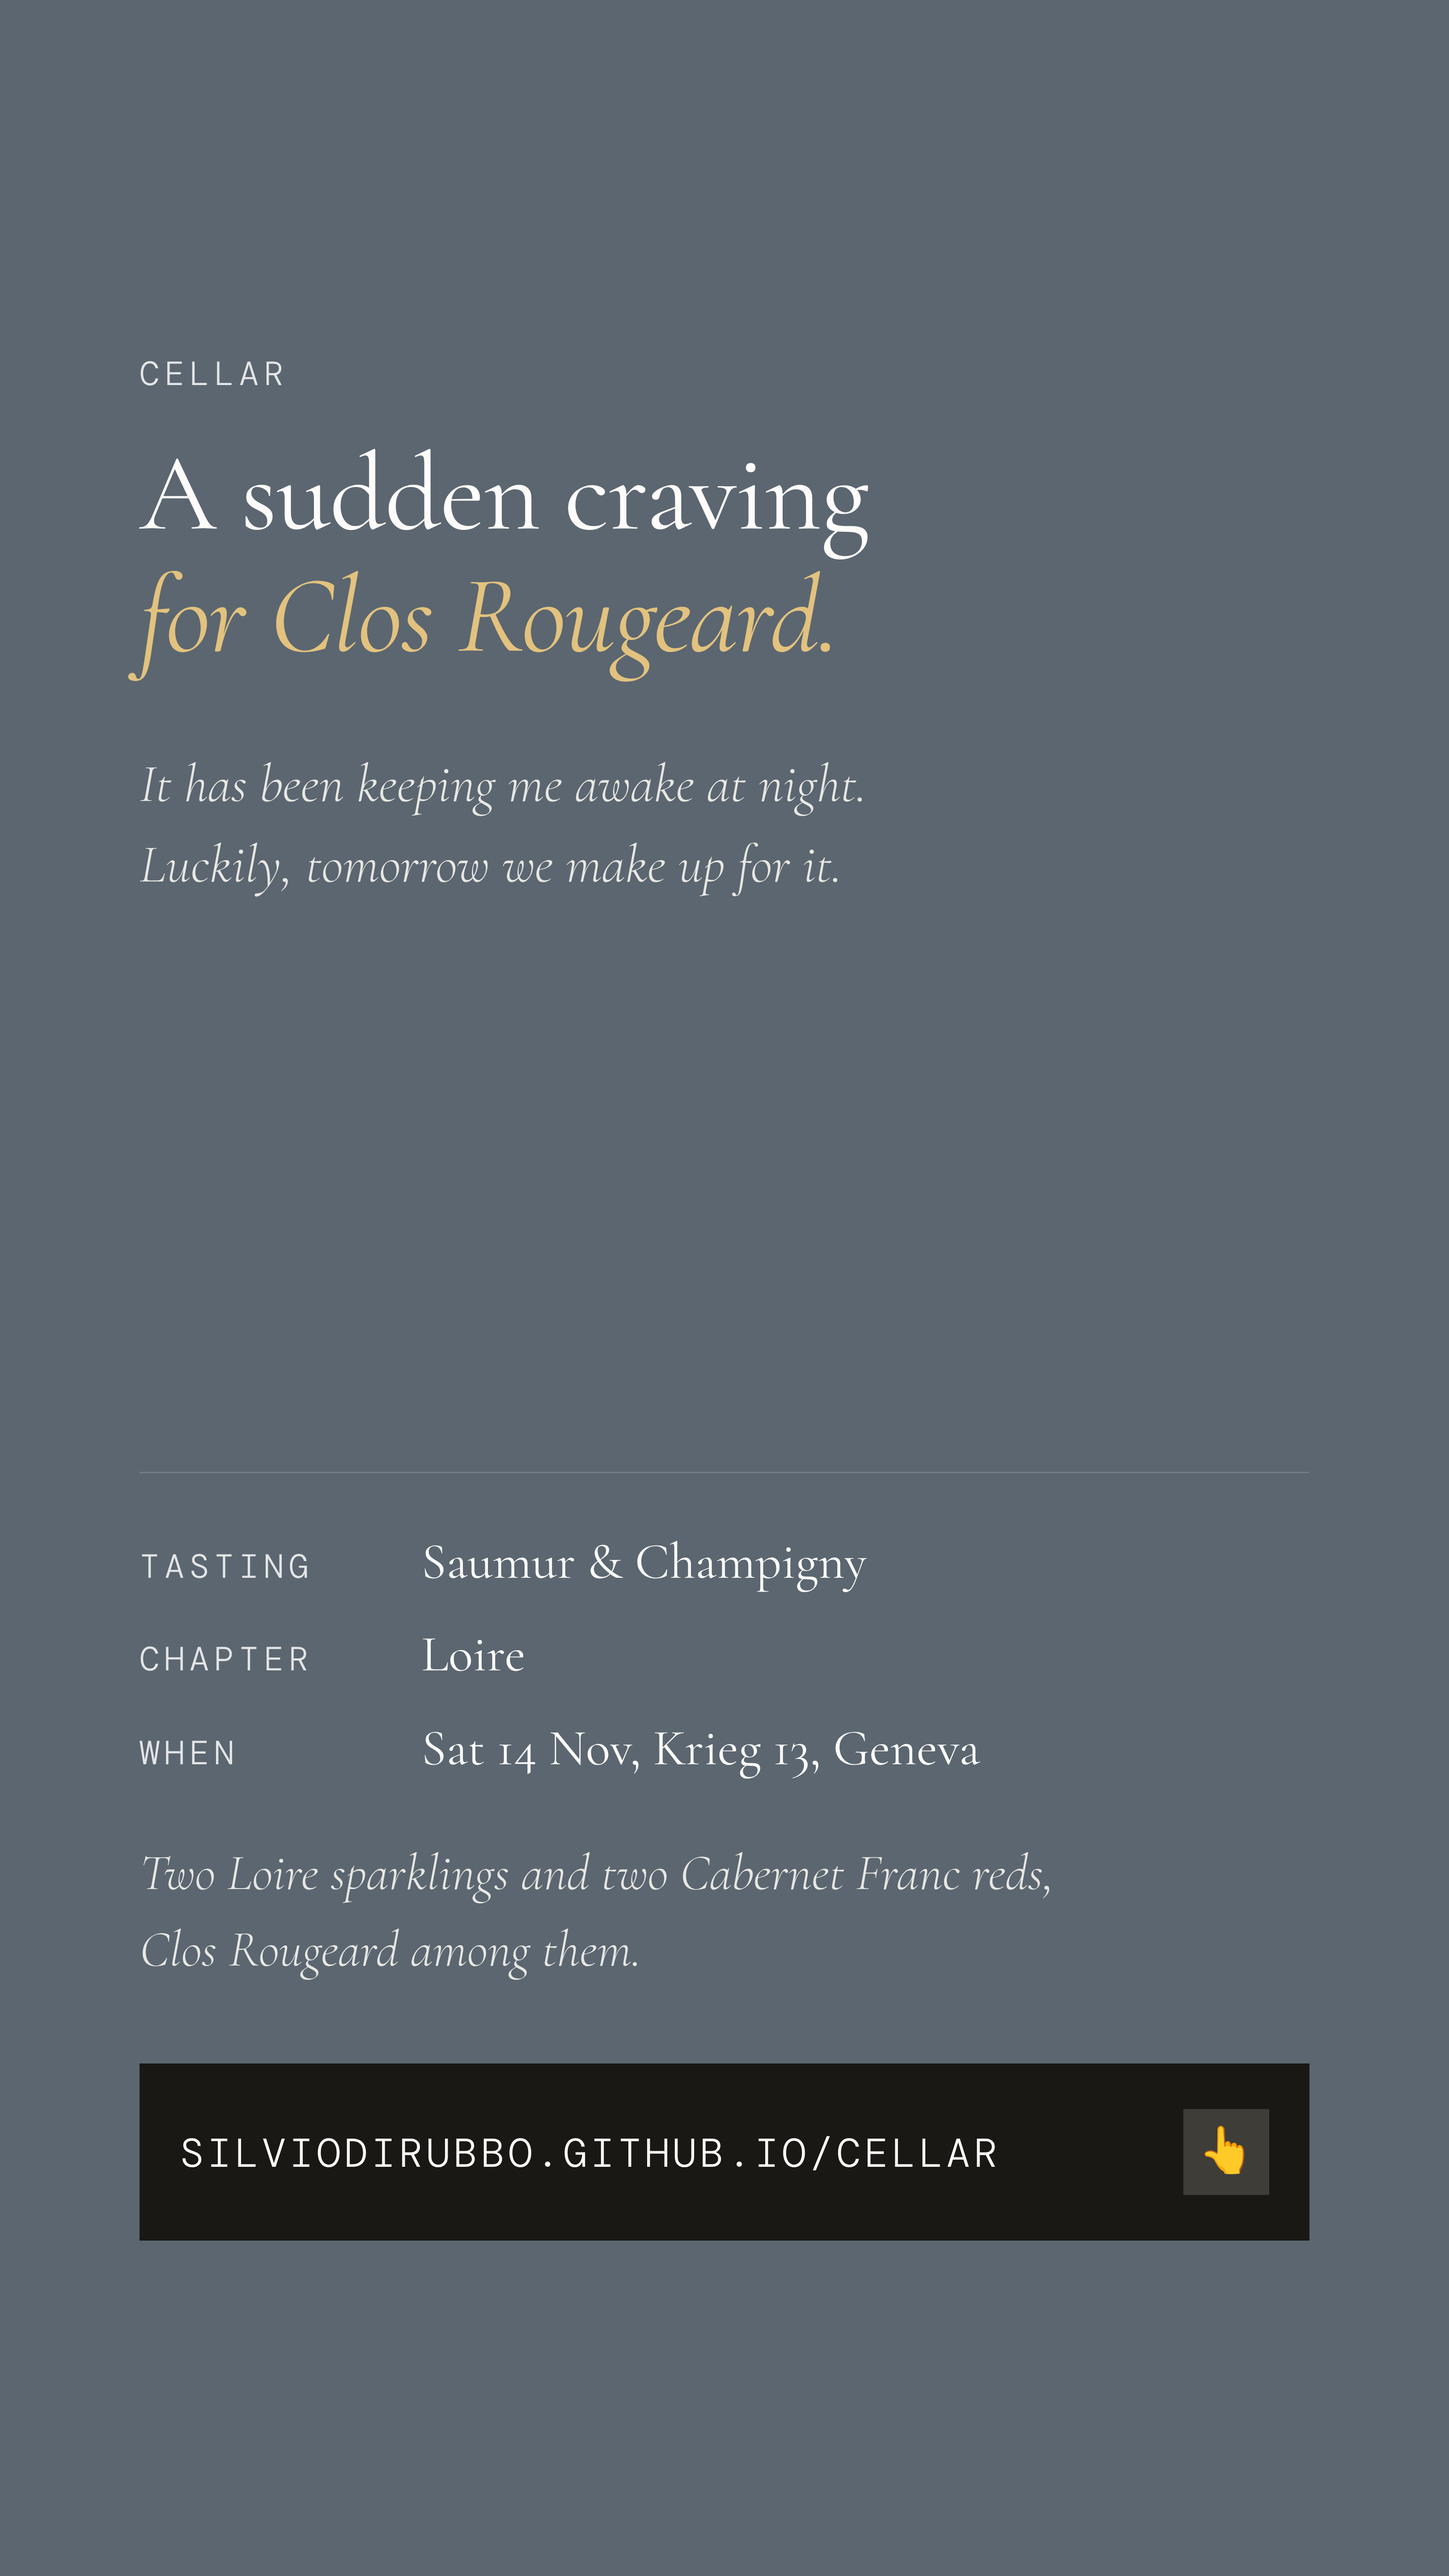
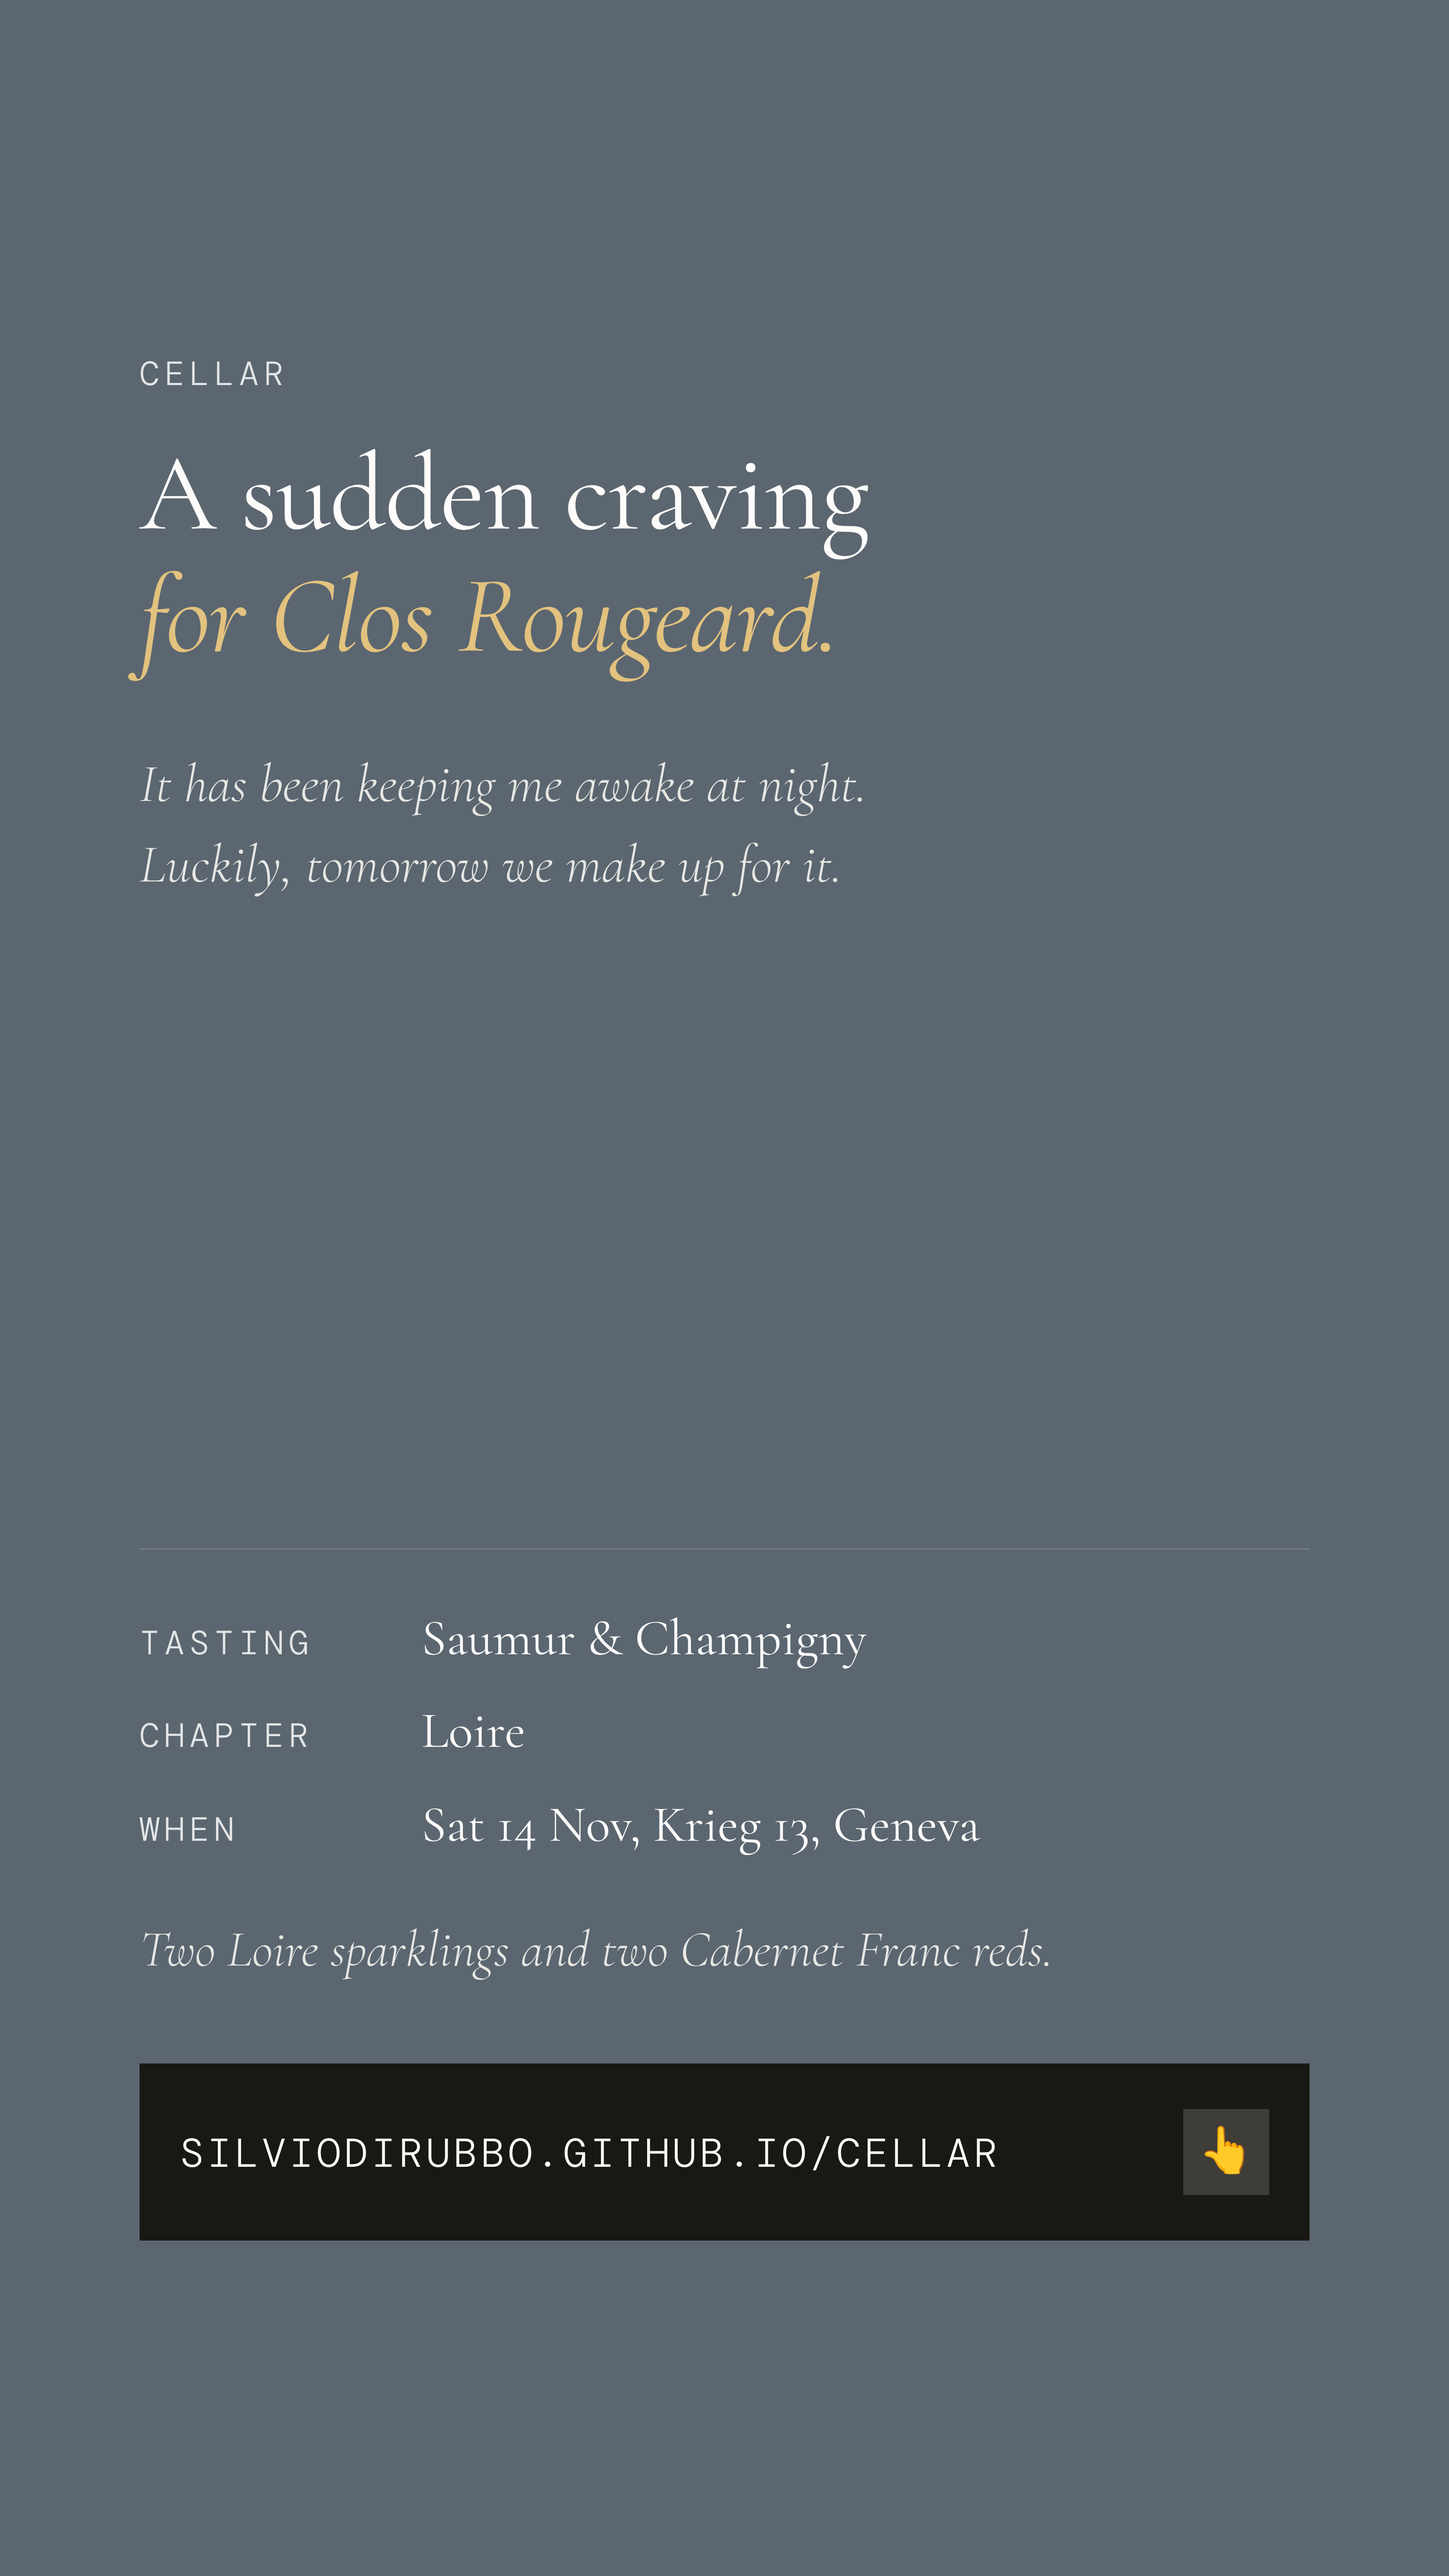
Story 28: drop "Clos Rougeard among them." from the wine line
The line now reads "Two Loire sparklings and two Cabernet Franc reds."

Claude-Session: https://claude.ai/code/session_01V8kbmJeJHsKBXsm8ynaoNX

diff --git a/assets/social/instagram/stories/src/story-28-clos-rougeard-teaser.html b/assets/social/instagram/stories/src/story-28-clos-rougeard-teaser.html
@@ -13,6 +13,5 @@ body:
   - "Luckily, tomorrow we make up for it."
 city: "Geneva"
 glass:
-  - "Two Loire sparklings and two Cabernet Franc reds,"
-  - "Clos Rougeard among them."
+  - "Two Loire sparklings and two Cabernet Franc reds."
 ---
